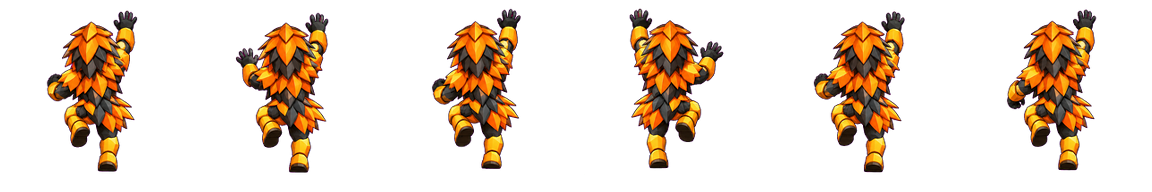
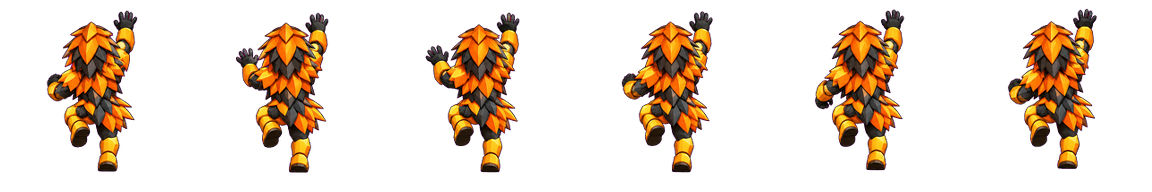
Re-sequence Void climb strips into their smoothest loop
The generated climb grids are a bag of poses in no order, so the compiled
strips jumped between unrelated frames mid-cycle. The compiler now searches
every ordering of the six frames, each as drawn or mirrored (a rear-view
hand-over-hand is symmetric, so a mirrored frame is the other hand's reach),
for the loop with the smallest silhouette change between consecutive frames
before pinning the bodies. All 18 strips regenerated; the largest step per
cycle fell by 20 to 70 percent (mantis 7001 to 3753 px, falcon 4362 to 1275).

Unit tests cover the loop search on a fixture whose generated order jumps,
the stabiliser is now invoked directly, and the loop test was proven red with
the search disabled.

Claude-Session: https://claude.ai/code/session_01C6YuTAMz8M6AV3x5Dgg5ii

diff --git a/scripts/climber-art/test_process_paid.py b/scripts/climber-art/test_process_paid.py
@@ -8,7 +8,7 @@ from pathlib import Path
 import numpy as np
 from PIL import Image, ImageDraw
 
-from process_paid import InvalidArt, compile_sheet, grounded, key_alpha, process_character, parser, visible_bounds, frame_summary
+from process_paid import InvalidArt, compile_sheet, grounded, key_alpha, process_character, parser, stabilise_climb, visible_bounds, frame_summary
 
 
 def atlas(cols, rows, varied=False, size=192):
@@ -168,28 +168,67 @@ class PaidArtTests(unittest.TestCase):
 
     def test_climb_frames_are_pinned_onto_the_first_body(self):
         # Frames 4-6 come from a second generated row: same body, drawn 12px right, 7px up and 8% larger.
+        climb = Image.new('RGBA', (6 * 192, 192), (255, 0, 255, 255))
+        draw = ImageDraw.Draw(climb)
+        for i in range(6):
+            dx, dy, grow = (12, -7, 4) if i >= 3 else (0, 0, 0)
+            x = i * 192 + 60 + dx
+            draw.rectangle((x - grow, 40 + dy - grow, x + 70 + grow, 174 + dy), fill=(20, 90, 210, 255))
+            # A hand that climbs the body's side a step per frame, so every frame differs.
+            hand = (x - 30, 20 + dy + 44 * (i % 3)) if i % 2 else (x + 74, 20 + dy + 44 * (i % 3))
+            draw.rectangle((hand[0], hand[1], hand[0] + 26, hand[1] + 40), fill=(240, 200, 30, 255))
+        frames = [key_alpha(climb.crop((i * 192, 0, (i + 1) * 192, 192)), 'magenta') for i in range(6)]
+        pinned, moves = stabilise_climb(frames)
+        self.assertTrue(all(abs(m['dx']) <= 1 for m in moves[:3]), moves)
+        self.assertTrue(all(-14 <= m['dx'] <= -10 for m in moves[3:]), moves)
+        self.assertTrue(all(m['scale'] < 1 for m in moves[3:]), moves)
+        # Even frames carry the hand on the right, so their left edge is the body's.
+        lefts = [visible_bounds(frame)[0] for frame in pinned[::2]]
+        self.assertLessEqual(max(lefts) - min(lefts), 4, lefts)
+        self.assertEqual(max(visible_bounds(frame)[3] for frame in pinned), 172)
+        with tempfile.TemporaryDirectory() as temp:
+            folder = Path(temp) / 'kestrel-void'
+            folder.mkdir()
+            atlas(4, 2).save(folder / 'kestrel-void-poses.png')
+            climb.save(folder / 'kestrel-void-climb.png')
+            report = process_character('kestrel', Path(temp), Path(temp) / 'out', check_only=True)
+            climbed = report['sheets']['climb']
+            # Through the whole pipeline (re-sequenced, possibly mirrored) every frame is pinned
+            # within the row offset and the soles no longer stagger.
+            self.assertEqual(len(climbed['stabilised']), 6)
+            self.assertTrue(all(abs(m['dx']) <= 14 and m['scale'] <= 1 for m in climbed['stabilised']), climbed['stabilised'])
+            soles = [f['bounds'][3] for f in climbed['frames']]
+            self.assertLessEqual(max(soles) - min(soles), 3, soles)
+
+    def test_climb_loop_is_the_smallest_step_sequence_of_distinct_frames(self):
+        # Six poses of one body with a hand at ranks 0,3,1,4,5,2 (28px apart), odd ranks on the
+        # other side: the generated order jumps, the smoothest loop climbs the hand one rank at
+        # a time (mirroring frames so the hand stays on one side, as a rear view allows).
         with tempfile.TemporaryDirectory() as temp:
             folder = Path(temp) / 'kestrel-void'
             folder.mkdir()
             atlas(4, 2).save(folder / 'kestrel-void-poses.png')
             climb = Image.new('RGBA', (6 * 192, 192), (255, 0, 255, 255))
             draw = ImageDraw.Draw(climb)
-            for i in range(6):
-                dx, dy, grow = (12, -7, 4) if i >= 3 else (0, 0, 0)
-                x = i * 192 + 60 + dx
-                draw.rectangle((x - grow, 40 + dy - grow, x + 70 + grow, 174 + dy), fill=(20, 90, 210, 255))
-                # A hand that climbs the body's side a step per frame, so every frame differs.
-                hand = (x - 30, 20 + dy + 44 * (i % 3)) if i % 2 else (x + 74, 20 + dy + 44 * (i % 3))
-                draw.rectangle((hand[0], hand[1], hand[0] + 26, hand[1] + 40), fill=(240, 200, 30, 255))
+            ranks = [0, 3, 1, 4, 5, 2]
+            for i, rank in enumerate(ranks):
+                x = i * 192 + 60
+                # Body and hand slots mirror onto themselves about the cell axis (x -> 191 - x).
+                draw.rectangle((x + 1, 20, x + 70, 174), fill=(20, 90, 210, 255))
+                hand_x = x - 33 if rank % 2 else x + 74
+                top = 2 + rank * 28
+                draw.rectangle((hand_x, top, hand_x + 30, top + 40), fill=(240, 200, 30, 255))
             climb.save(folder / 'kestrel-void-climb.png')
             report = process_character('kestrel', Path(temp), Path(temp) / 'out', check_only=True)
-            moves = report['sheets']['climb']['stabilised']
-            self.assertTrue(all(abs(m['dx']) <= 1 for m in moves[:3]), moves)
-            self.assertTrue(all(-14 <= m['dx'] <= -10 for m in moves[3:]), moves)
-            self.assertTrue(all(m['scale'] < 1 for m in moves[3:]), moves)
-            # Even frames carry the hand on the right, so their left edge is the body's.
-            lefts = [f['bounds'][0] for f in report['sheets']['climb']['frames'][::2]]
-            self.assertLessEqual(max(lefts) - min(lefts), 4, lefts)
+            cycle = report['sheets']['climb']['cycle']
+            self.assertLess(sum(cycle['stepPixelsAfter']), sum(cycle['stepPixelsBefore']), cycle)
+            self.assertEqual(cycle['order'][0], '1')
+            self.assertEqual(len(set(cycle['order'])), 6)
+            chosen = [ranks[int(name[0]) - 1] for name in cycle['order']]
+            self.assertEqual(sorted(chosen), [0, 1, 2, 3, 4, 5], cycle)
+            # Every step is one rank apart; the loop closes over the one long gap.
+            steps = sorted(abs(chosen[(i + 1) % 6] - chosen[i]) for i in range(6))
+            self.assertEqual(steps, [1, 1, 1, 1, 1, 5], cycle)
 
     def test_run_strides_match_the_idle_mass_and_head_column(self):
         with tempfile.TemporaryDirectory() as temp:

diff --git a/scripts/climber-art/process_paid.py b/scripts/climber-art/process_paid.py
@@ -9,7 +9,9 @@ import sys
 import tempfile
 
 import numpy as np
-from PIL import Image, ImageFilter
+import itertools
+
+from PIL import Image, ImageFilter, ImageOps
 
 IDS = ('kestrel', 'lynx', 'raven', 'panther', 'wolf', 'otter', 'heron', 'yak',
        'mantis', 'cobra', 'badger', 'falcon', 'marmot', 'bison', 'ibex', 'sentinel', 'viking', 'gecko')
@@ -206,6 +208,50 @@ def stabilise_climb(frames: list[Image.Image]) -> tuple[list[Image.Image], list[
     return result, [{**move, 'dy': move['dy'] + sole} for move in moves]
 
 
+def alpha_diff(first: np.ndarray, second: np.ndarray) -> int:
+    return int(np.count_nonzero(first ^ second))
+
+
+def smoothest_cycle(frames: list[Image.Image]) -> tuple[list[Image.Image], dict]:
+    """Re-sequence the six climb frames into the loop with the smallest steps.
+
+    A generated climb grid is a set of poses, not a sequence: its rows repeat
+    poses and jump between them in no order. The loop the engine plays uses
+    every frame once, each either as drawn or mirrored (a rear-view
+    hand-over-hand is symmetric, so a mirrored frame is the other hand's
+    reach), in the order that keeps every consecutive pair as close as
+    possible, measured as the silhouette (visible-alpha) difference, while
+    every pair in the loop stays distinct by the repeat guard's pixel measure
+    (MIN_FRAME_DIFF). Frame 1 keeps its place and its side, so the output is
+    deterministic and the stabiliser's reference body is unchanged.
+    """
+    pool = frames + [ImageOps.mirror(frame) for frame in frames]
+    masks = [np.asarray(frame)[:, :, 3] > VISIBLE_ALPHA for frame in pool]
+    diffs = np.array([[alpha_diff(a, b) for b in masks] for a in masks])
+    # Distinctness uses the same measure as the repeat guard, so a loop that
+    # passes here is one compile_sheet would also accept.
+    same = np.array([[frame_diff(a, b) <= MIN_FRAME_DIFF for b in pool] for a in pool])
+    before = [int(diffs[i, (i + 1) % 6]) for i in range(6)]
+    best: tuple[tuple[int, int], tuple[int, ...]] | None = None
+    for rest in itertools.permutations(range(1, 6), 5):
+        for flips in itertools.product((0, 6), repeat=5):
+            order = (0, *(index + flip for index, flip in zip(rest, flips)))
+            if any(same[a, b] for a, b in itertools.combinations(order, 2)):
+                continue
+            steps = [int(diffs[order[i], order[(i + 1) % 6]]) for i in range(6)]
+            key = (max(steps), sum(steps))
+            if best is None or key < best[0]:
+                best = (key, order)
+    if best is None:
+        raise InvalidArt('climb frames cannot form a loop of six distinct frames')
+    _, order = best
+    after = [int(diffs[order[i], order[(i + 1) % 6]]) for i in range(6)]
+    return [pool[index] for index in order], {
+        'order': [f'{index % 6 + 1}{"m" if index >= 6 else ""}' for index in order],
+        'stepPixelsBefore': before, 'stepPixelsAfter': after,
+    }
+
+
 def stabilise_run(frames: list[Image.Image]) -> tuple[list[Image.Image], list[dict]]:
     """Match both run strides to the idle's mass and head column, then re-ground them.
 
@@ -276,8 +322,12 @@ def normalize_pair(compiled: dict) -> tuple[dict, float]:
             normalized.append(frame.transform(frame.size, Image.Transform.AFFINE, transform,
                                               Image.Resampling.BICUBIC)
                               if scale < 1 or shift else frame)
-        normalized, moves = stabilise_climb(normalized) if kind == 'climb' else stabilise_run(normalized)
         report = dict(compiled[kind][1])
+        if kind == 'climb':
+            normalized, report['cycle'] = smoothest_cycle(normalized)
+            normalized, moves = stabilise_climb(normalized)
+        else:
+            normalized, moves = stabilise_run(normalized)
         report['wholeSheetShiftY'] = shifts[kind]
         report['stabilised'] = moves
         report['frames'] = [{**frame_summary(frame, i),

diff --git a/scripts/climber-art/README.md b/scripts/climber-art/README.md
@@ -65,11 +65,17 @@ The crouch retains its relative height and all14 cells keep one shared scale.
 After that, each cycle is stabilised so the engine's crossfades move limbs
 rather than the whole figure: both run strides are scaled about the anchor to
 the idle's visible mass (0.9 to 1.2) and their head column is moved onto the
-idle's, then re-grounded; climb frames 2 to 6 are scaled to frame 1's mass
-(0.9 to 1.1) and translated onto its body (the cross-correlation peak of the
-blurred alpha, up to 24px), then the strip is grounded as a whole. The report's
-`stabilised` lists each move. Generated climb rows otherwise drift by 5 to
-25px between renders, which ghosted every Void climb loop.
+idle's, then re-grounded. The climb strip is first re-sequenced into the
+smoothest loop: every frame is used once, as drawn or mirrored (a rear-view
+hand-over-hand is symmetric, so a mirrored frame is the other hand's reach),
+in the order with the smallest silhouette change between consecutive frames,
+frame 1 staying first; the report's `cycle` lists the order (`4m` = frame 4
+mirrored) and the per-step pixel change before and after. Then climb frames
+2 to 6 are scaled to frame 1's mass (0.9 to 1.1) and translated onto its body
+(the cross-correlation peak of the blurred alpha, up to 24px), and the strip
+is grounded as a whole. The report's `stabilised` lists each move. Generated
+climb grids are otherwise a bag of poses in no order, drifting 5 to 25px
+between renders, which ghosted and jolted every Void climb loop.
 Factors below0.65 or shifts over24px fail. Empty frames, clipped
 edges, wrong aspect, and climb pairs with <=1000 visibly different pixels
 fail the character without writing either output. JSON reports record the shared factor, whole-sheet shifts, individual grounding

diff --git a/app/public/climb/README.md b/app/public/climb/README.md
@@ -122,8 +122,10 @@ Approved masters live in `paid-characters/art/<id>-void/`. Compile them with
 the reviewed snapshot before replacing runtime PNGs. Each pair shares one
 scale and the foot anchor `(96,172.5)`; standing poses are grounded, the
 falling pose keeps its authored position, and the run and climb cycles are
-stabilised (each frame's body pinned onto the cycle's first) so the crossfades
-read like the Wraith's: limbs move, the figure does not.
+stabilised (the climb re-sequenced into its smoothest loop, mirroring frames
+where that is the other hand's reach, then each frame's body pinned onto the
+cycle's first) so the crossfades read like the Wraith's: limbs move, the
+figure does not.
 
 `VOID_SKIN_SHEETS` in `climberCharacters.ts` registers all 18 pairs with the
 reviewed idle skull-top estimate (excluding horns, ears and crests). Its
